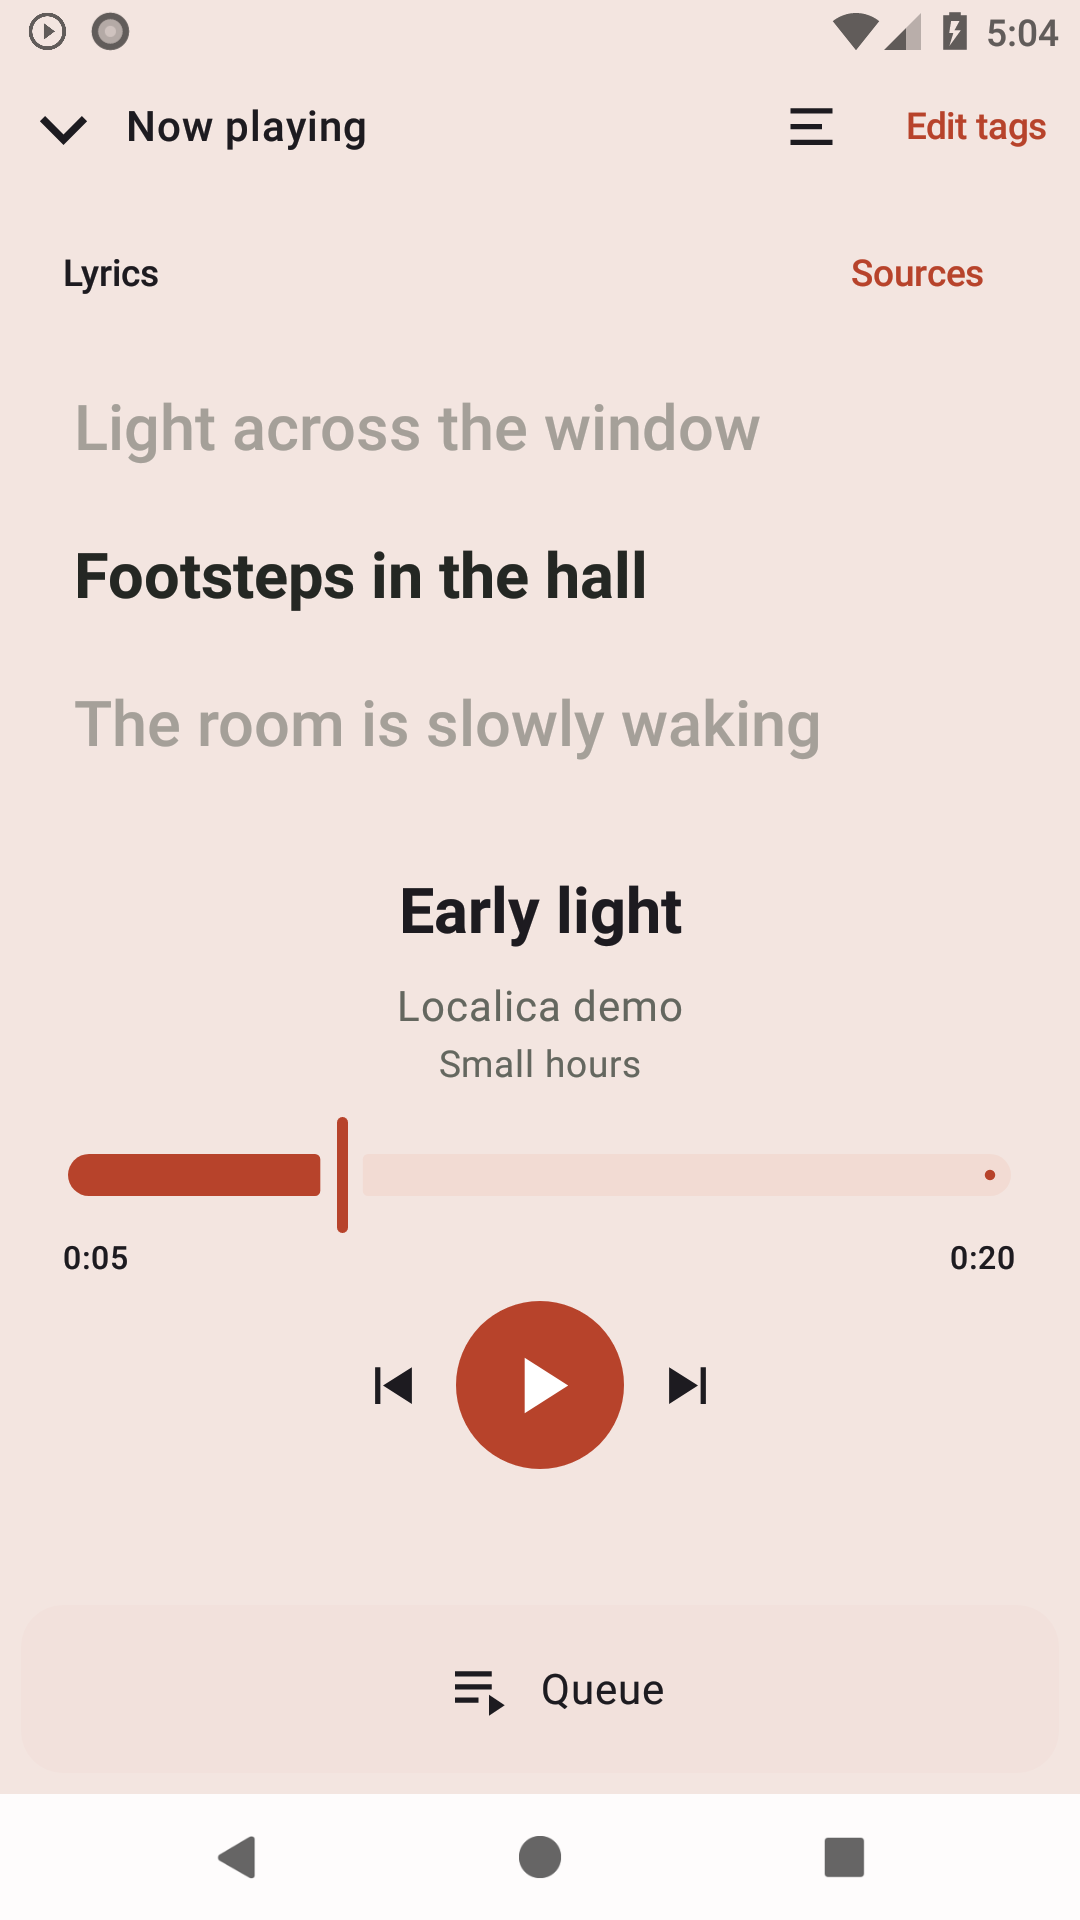
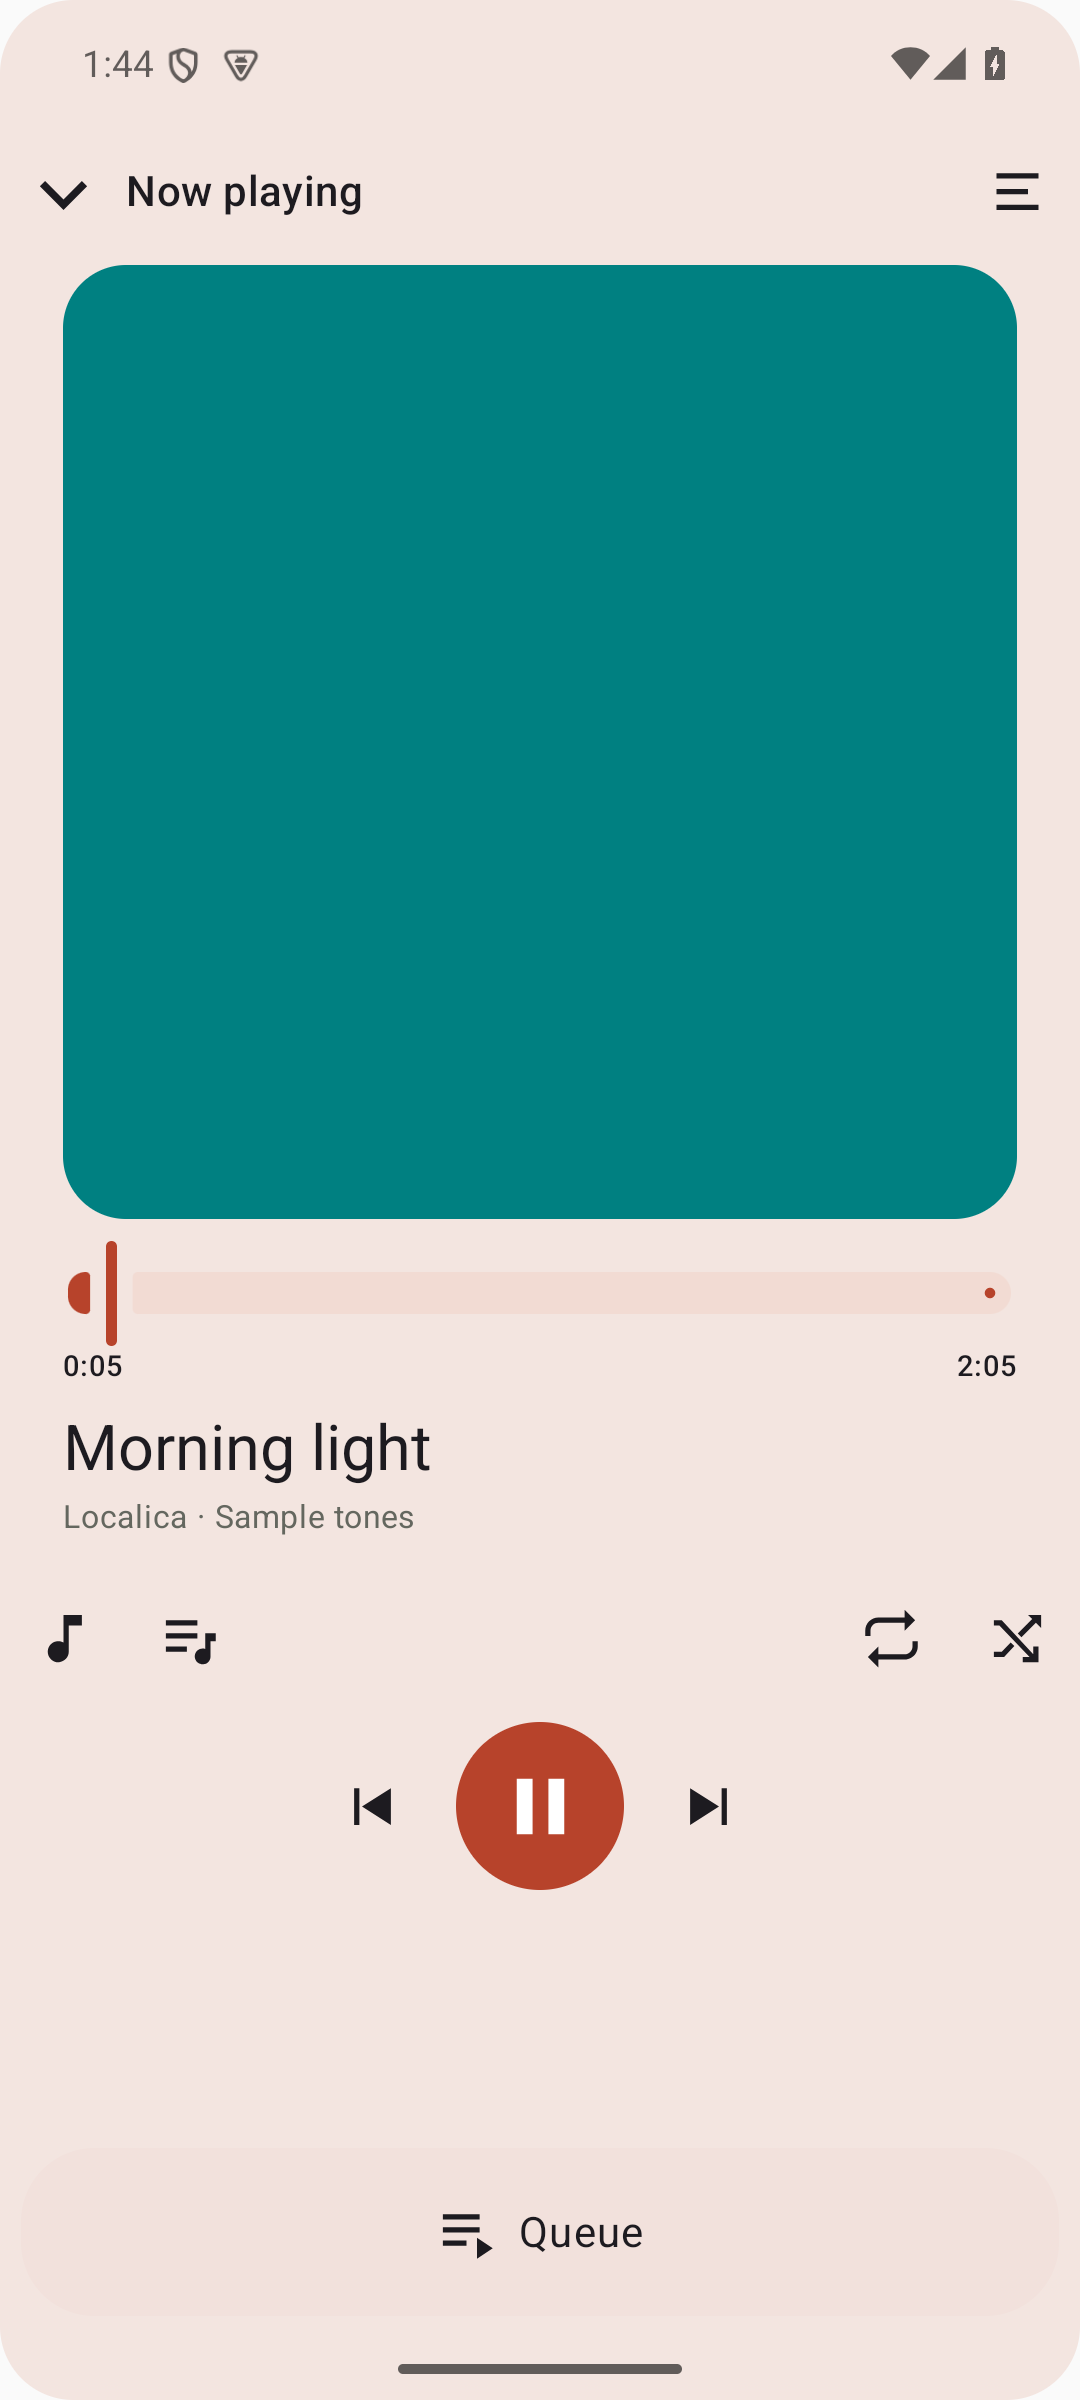
Prepare the v0.9.0 development release (#24, #25, #26, #27, #29)

diff --git a/docs/roadmap.md b/docs/roadmap.md
@@ -10,15 +10,11 @@ Shared browsing, scoped/global search, sorting overrides, contextual selection, 
 
 Recoverable individual/bulk tag and artwork editing, image selection, and zoomable artwork viewing shipped in v0.7.1. Local embedded/sidecar lyrics, configurable artwork gestures, synced following, tap-to-seek, and fading viewport edges shipped in v0.8.1. Unsupported write formats/providers remain read-only.
 
-## Next release: v0.9.0
-
-Build the lasting reference-based layout before liquid-glass rendering using all 19 supplied screenshots. Deliver continuous mini-player/player/Queue gestures, reusable rounded menus, tab swiping, persistent local search, configurable player actions, session-wide ordered selection, richer metadata, queue organization, and next-track preloading. The behavioral contract is in [Interface](interface.md).
-
-Verify migrations, tag recovery, audio boundaries, accessibility, small/landscape screens, and Android 8/16 before publishing an APK. Review this structural release before starting glass. Keep focused commits pushed and update real screenshots with finished layouts.
+Reference-based layouts, continuous player/Queue gestures, tab swiping, restored search/list history, configurable player actions, outlined session selection, cancelable multi-song drag stacks, richer metadata, independent queue browsing, and next-track preloading ship in v0.9.0. The behavioral contract is in [Interface](interface.md).
 
 ## Visual design system
 
-Apply the Apple Music-inspired liquid-glass presentation to the established layout and interactions after the functional foundation is proven. Test accessibility, frame performance, and fallbacks across supported Android versions. Keep the design system in this repository initially; consider extraction only after demonstrated reuse.
+Review the v0.9.0 layout and interactions on real devices, including drag haptics, before starting the glass layer. Apply the Apple Music-inspired liquid-glass presentation to the established layout and interactions after the functional foundation is proven. Test accessibility, frame performance, and fallbacks across supported Android versions. Keep the design system in this repository initially; consider extraction only after demonstrated reuse.
 
 ## Subsequent functionality
 

diff --git a/.github/RELEASE_NOTES.md b/.github/RELEASE_NOTES.md
@@ -1,23 +1,24 @@
-<!-- Release: v0.8.1 -->
+<!-- Release: v0.9.0 -->
 
 Development APK for Android 8 or newer. Signed with the project development key; uses a separate `.debug` application ID. Production distribution signing is not configured.
 
 ## Changes
 
-- Local embedded and matching `.lrc` lyrics, with selectable synced/plain sources
-- Integrated lyrics with active-line emphasis, fading edges, playback following, and tap-to-seek
-- Independently configurable artwork tap/hold actions, plus reduced-motion and Back behavior
-
-- Landscape controls respect system navigation insets
+- Rounded reference-based layouts, continuous player gestures, tab swiping, and restored search/list positions
+- Independent queue browsing and ordered multi-song dragging, with a floating cancel target and selection outlines
+- Richer metadata editing and sorting, customizable player actions, and next-track preloading
+- Known limitations: padding tails remain for some AAC files (https://github.com/anastaci1a/localica/issues/28) and the legacy Android 8 MP3 decoder (https://github.com/anastaci1a/localica/issues/30)
 
 ## Resolved issues
 
-- https://github.com/anastaci1a/localica/issues/19 - Local lyrics and configurable player artwork actions
-
-- https://github.com/anastaci1a/localica/issues/23 - Safe landscape bounds for browsing and playback
+- https://github.com/anastaci1a/localica/issues/24 - Reference layouts, navigation, and gestures
+- https://github.com/anastaci1a/localica/issues/25 - Next-track preloading and audio-boundary checks
+- https://github.com/anastaci1a/localica/issues/26 - Extended metadata and collection organization
+- https://github.com/anastaci1a/localica/issues/27 - Independent queue browsing and recent-queue restoration
+- https://github.com/anastaci1a/localica/issues/29 - Ordered drag stacks, cancellation, and selection outlines
 
 ## Install
 
-1. Download `localica-v0.8.1-debug.apk` from **Assets** below (Android 8+).
+1. Download `localica-v0.9.0-debug.apk` from **Assets** below (Android 8+).
 2. Open the APK and allow installation from your browser or file manager if prompted.
 3. Open Localica and choose your music folder in Settings.

diff --git a/README.md b/README.md
@@ -9,7 +9,8 @@ Requires **Android 8+**. Supports MP3 and AAC/M4A, plus WAV, FLAC, Ogg, and Opus
 [Download development APKs](https://github.com/anastaci1a/localica/releases) · [Build and test](docs/build.md) · [Project plan](docs/README.md) · [Report an issue](https://github.com/anastaci1a/localica/issues)
 
 <p>
-  <img src="docs/images/player.png" width="240" alt="Player with synchronized local lyrics">
+  <img src="docs/images/player.png" width="240" alt="Player with embedded artwork and configurable actions">
+  <img src="docs/images/queue.png" width="240" alt="Moving selected songs as a stack with a foreground cancel target">
   <img src="docs/images/editor.png" width="240" alt="Tag editor with individually selected fields">
 </p>
 
